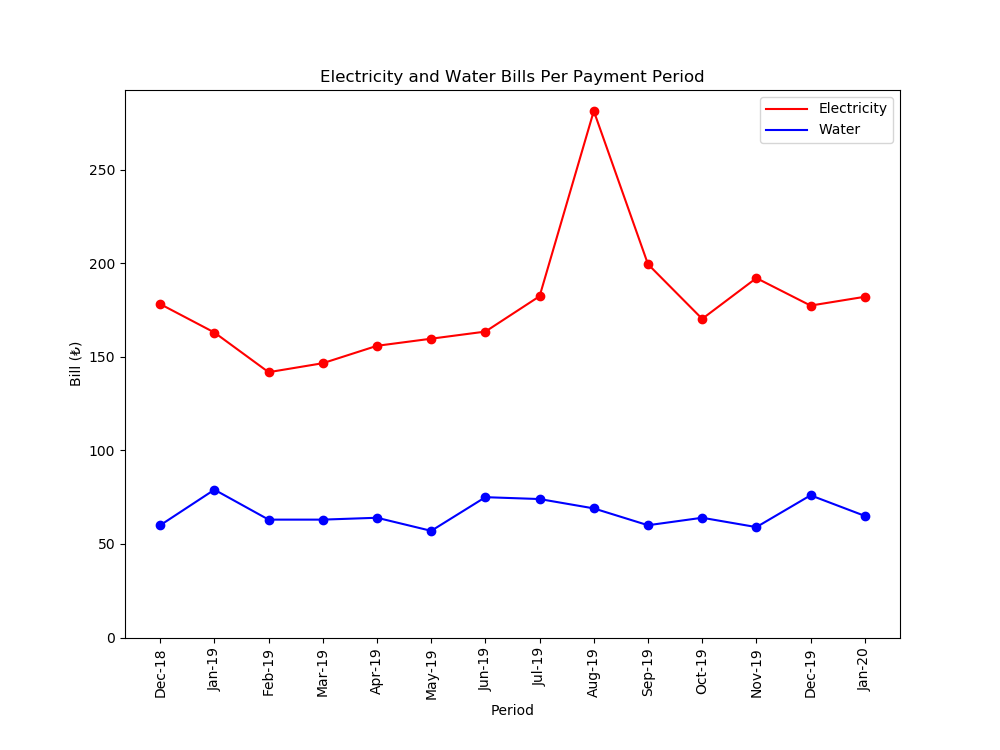
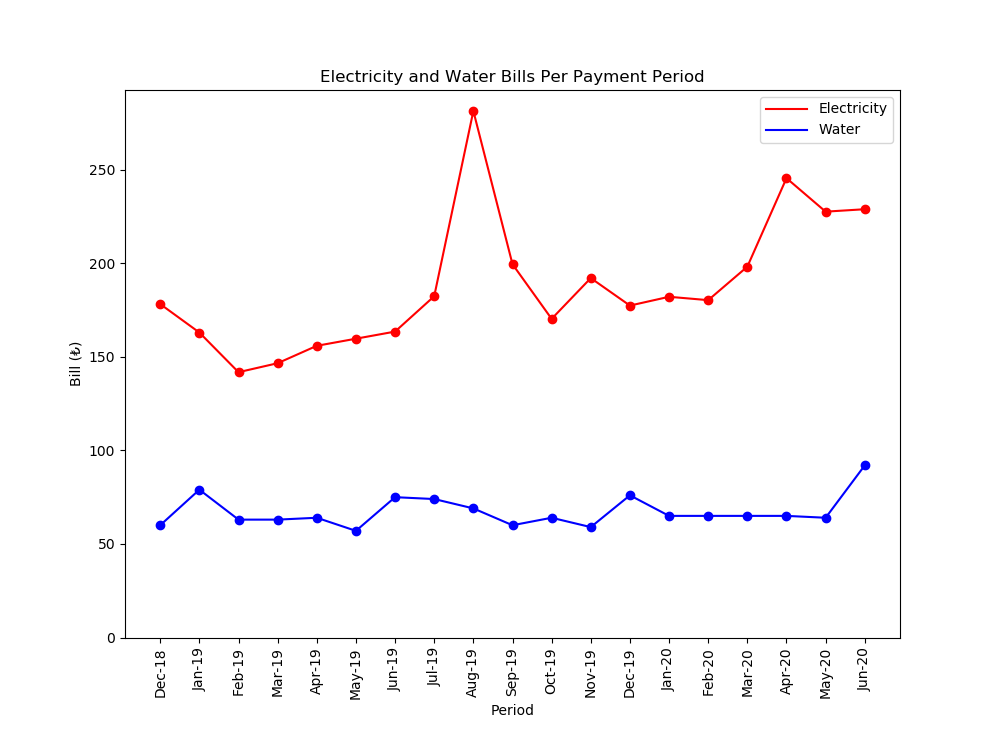
Add more bills and also make it use last month's data if the current month's value is missing

diff --git a/usage_graph.py b/usage_graph.py
@@ -16,8 +16,16 @@ with open('monthly_bills.csv') as csv_file:
         else:
             # print(f'\t{row[0]} - {row[1]} - {row[2]}')
             periods.append(row[0])
-            electricity.append(float(row[1]))
-            water.append(float(row[2]))
+            try:
+                electricity.append(float(row[1]))
+            except:
+                # Use last month's value if the current value is not defined etc.
+                electricity.append(electricity[-1])
+            try:
+                water.append(float(row[2]))
+            except:
+                # Use last month's value if the current value is not defined etc.
+                water.append(water[-1])
             line_count += 1
         # print(f'Processed {line_count} lines.')
 
